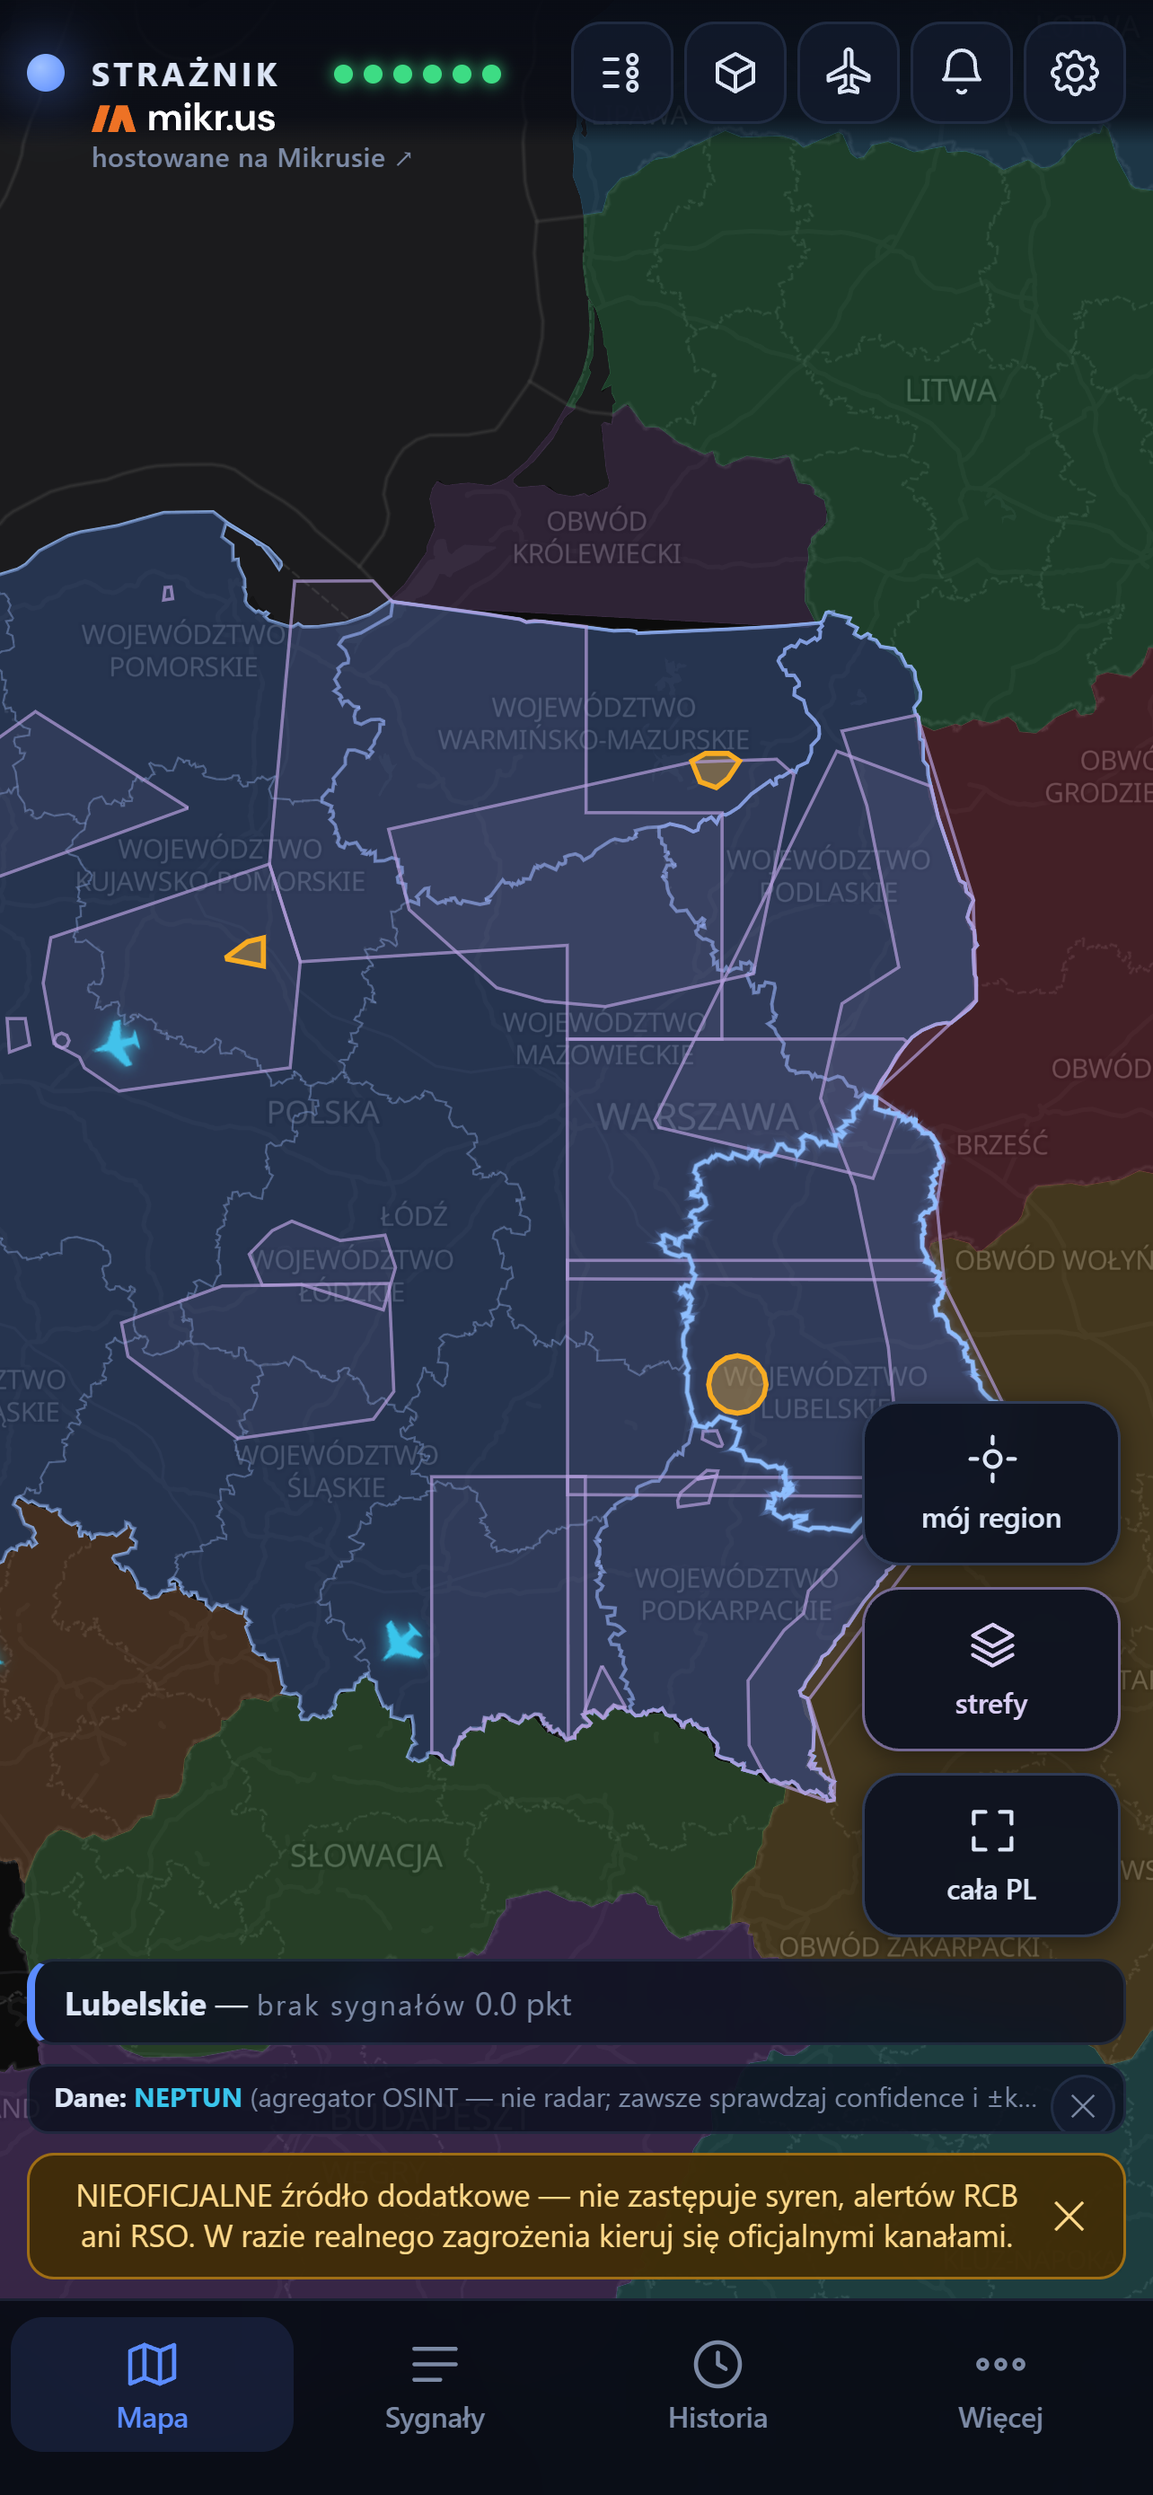
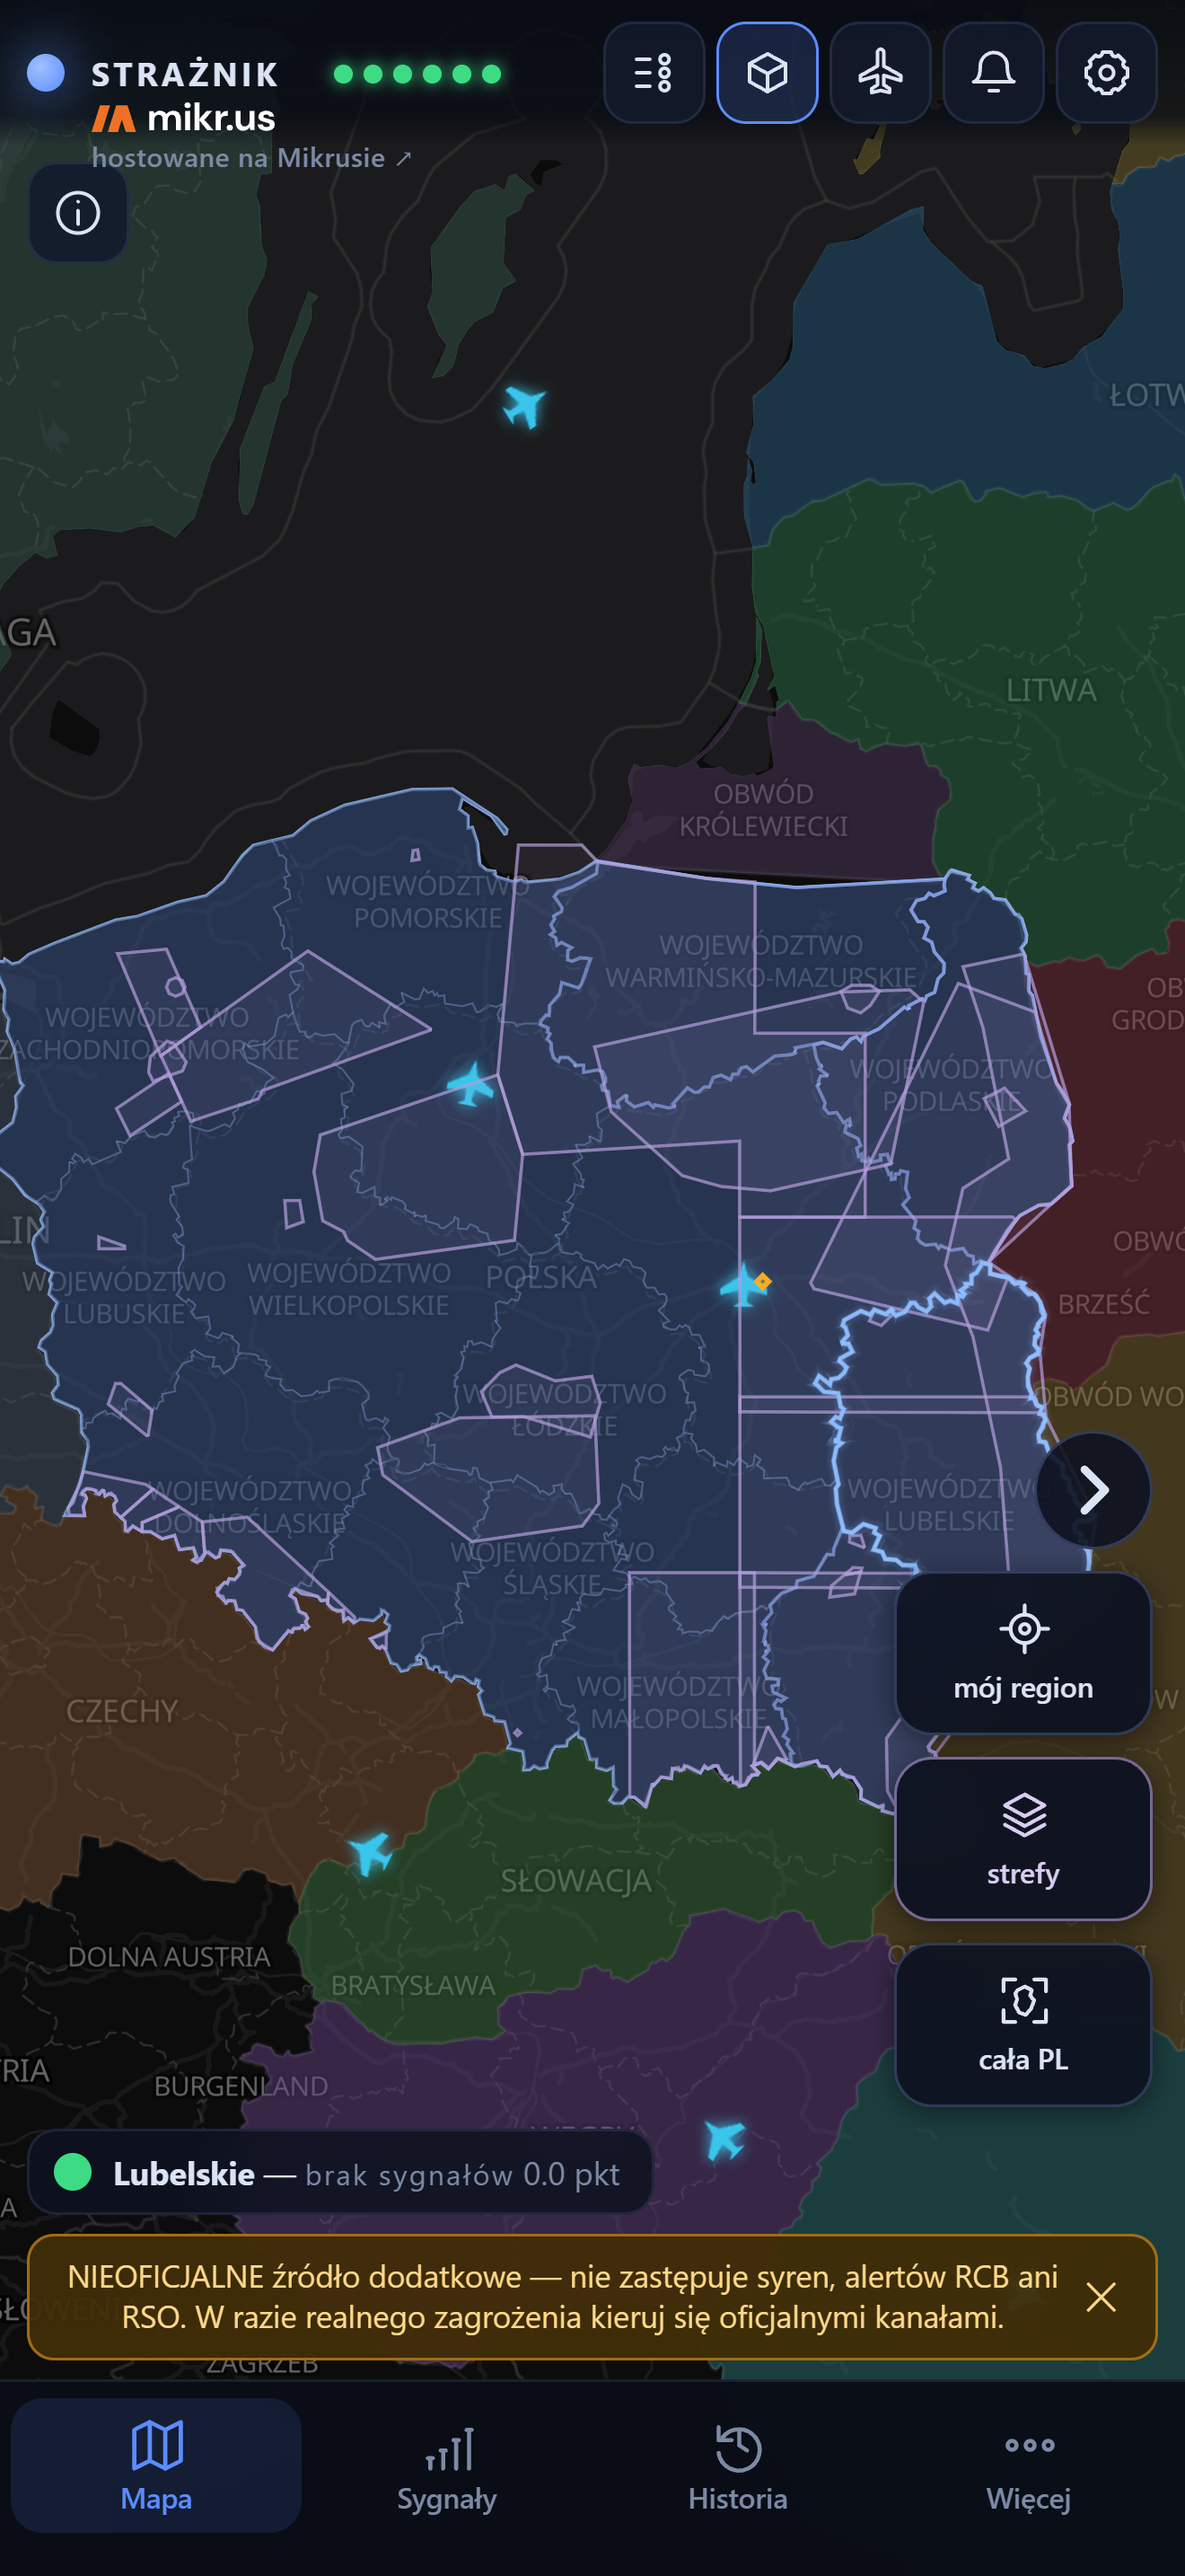
iOS: refresh the App Store screenshots for the rebuilt interface
The six shots in the listing still showed the layout from before 1.7.89.
New set captured from the same www bundle that goes into the IPA, at
1320x2868, with a repeatable script (ios-app/skrypty/zrzuty.mjs).

The alarm settings screen is out of the set on purpose: in a browser it
renders the Safari text about adding the app to the home screen, which is
not what someone installing from the App Store sees.

diff --git a/ios-app/APP_STORE_ZGLOSZENIE.md b/ios-app/APP_STORE_ZGLOSZENIE.md
@@ -208,27 +208,39 @@ Wymagania (strona „Screenshot specifications”, sprawdzona 17.09.2026):
 - można dodać podpisy i ramki, ale zrzut musi pokazywać **działającą aplikację**,
   nie ekran startowy (2.3.3), a treść musi być odpowiednia dla 4+ (2.3.8).
 
-Plan 6 zrzutów z podpisami:
+Zestaw z 11.10.2026 (wydanie 1.7.93, po przebudowie wyglądu z 1.7.89) —
+`ios-app/zrzuty/`, 1320×2868, bez kanału alfa:
 
-| # | Ekran | Podpis (PL) |
-|---|---|---|
-| 1 | Mapa z alarmem w województwie | „Jedna mapa: co leci, skąd i jak blisko” |
-| 2 | Panel sygnałów z rozbiciem punktów | „Widzisz każde źródło i jego wagę” |
-| 3 | Powiadomienie / ekran alarmu | „Alarm dotrze przy zamkniętej aplikacji” |
-| 4 | Suwak historii | „Wróć do przebiegu zdarzenia” |
-| 5 | Moje miejsca | „Alarmy tylko dla wybranych województw” |
-| 6 | Ustawienia → Alarmy | „Wszystko możesz wyłączyć jednym suwakiem” |
+| # | Plik | Co widać |
+|---|------|----------|
+| 1 | `1-mapa.png` | cała Polska, strefy PAŻP, ruch wojskowy ADS-B, pasek disclaimera |
+| 2 | `2-sygnaly.png` | rozbicie punktów województwa: NEPTUN +1,2, alarm UA +1, NEPTUN +0,2 |
+| 3 | `3-historia.png` | suwak historii cofnięty do prawdziwego alarmu (lubelskie 2,6 pkt) |
+| 4 | `4-schronienie.png` | GROTA: „Tu jesteś" w Lublinie i najbliższe punkty z odległościami |
+| 5 | `5-miejsca.png` | Moje miejsca — i zdanie, że nazwy i współrzędne zostają na telefonie |
+| 6 | `6-punktacja.png` | „O aplikacji i punktacja" — skąd biorą się punkty (odpowiedź na 4.2.2) |
 
-Jak je zrobić bez iPhone'a i Maca:
-1. **Najlepiej:** tester zrobi zrzuty na swoim iPhonie — musi to być model
-   z ekranem 6,9″ lub 6,5″ (np. 16/17 Pro Max daje 1290×2796). Zrzuty z iPhone'a
-   13 czy 15 zwykłego mają inny rozmiar i **nie nadają się** jako zestaw główny.
-2. **Zapasowo:** złożę obrazy 1320×2868 z widoku aplikacji uruchomionej
-   w przeglądarce w proporcjach iPhone'a, z podpisem i ciemnym tłem. Apple to
-   dopuszcza (nie ma wymogu zrzutu z prawdziwego urządzenia), a UI będzie
-   prawdziwy. Minus: obraz będzie nieco mniej ostry niż z telefonu.
-3. Na zrzutach musi być widoczny disclaimer albo neutralny stan — nie robimy
-   wrażenia, że to oficjalny alarm państwowy.
+Jak powstają: `node ios-app/skrypty/zrzuty.mjs` (z korzenia repo, po
+`przygotuj.mjs`). Skrypt serwuje **tę samą paczkę `ios-app/www`, która idzie do
+IPA**, w Chromium w wymiarach iPhone'a 16 Pro Max (440×956 @3×), podstawia
+`window.Capacitor.getPlatform() === "ios"` — dokładnie to, po czym `index.html`
+rozpoznaje aplikację — i klika w ekrany tak, jak klikałby palec. Dane są
+prawdziwe, z produkcji; spokojny dzień obchodzimy przyciskiem „alarm" w pasku
+historii, który cofa do ostatniego zapisanego zdarzenia.
+
+Czego ten sposób NIE daje (mówimy to wprost):
+- tekst rysuje Chromium, nie WebKit — krój jest systemowy z Windows, nie SF Pro,
+- nie ma paska stanu iOS ani marginesów bezpiecznych wokół wyspy,
+- ekran **„Ustawienia → Alarmy" celowo wypadł z zestawu**: w przeglądarce pokazuje
+  treść dla Safari („dodaj do ekranu początkowego"), a nie to, co widzi człowiek
+  w aplikacji ze sklepu. Zrzutu, który pokazuje co innego niż aplikacja, nie
+  wstawiamy — to byłaby makieta.
+
+Lepszy zestaw dałby tester na swoim iPhonie (6,9″ lub 6,5″) albo zrzuty
+z symulatora iOS na macOS. Póki ich nie ma, powyższe są najbliżej prawdy.
+
+Na zrzutach musi być widoczny disclaimer albo neutralny stan — nie robimy
+wrażenia, że to oficjalny alarm państwowy.
 
 ---
 
@@ -321,7 +333,7 @@ z podtytułem „Nieoficjalna mapa zagrożeń”.
 | Podtytuł | **Nieoficjalna mapa zagrożeń** |
 | Kategoria | **Utilities** (bez dodatkowej; do zmiany, jeśli wolisz Weather) |
 | Tekst promocyjny, opis, słowa kluczowe | wpisane (opis po polsku, 1335 znaków; słowa kluczowe 90 B) |
-| Zrzuty ekranu | **6 szt., 1284×2778** (6,5″ — Apple przeskaluje na pozostałe rozmiary) |
+| Zrzuty ekranu | **6 szt., 1320×2868** (6,9″ — Apple przeskaluje na pozostałe rozmiary); zestaw odświeżony 11.10.2026 |
 | Support URL | `https://cukierrro.pl/#kontakt` |
 | Marketing URL | puste (celowo — kawa na stronie głównej) |
 | Wersja / Copyright | 1.7.57 / `2026 cukierrro` |
